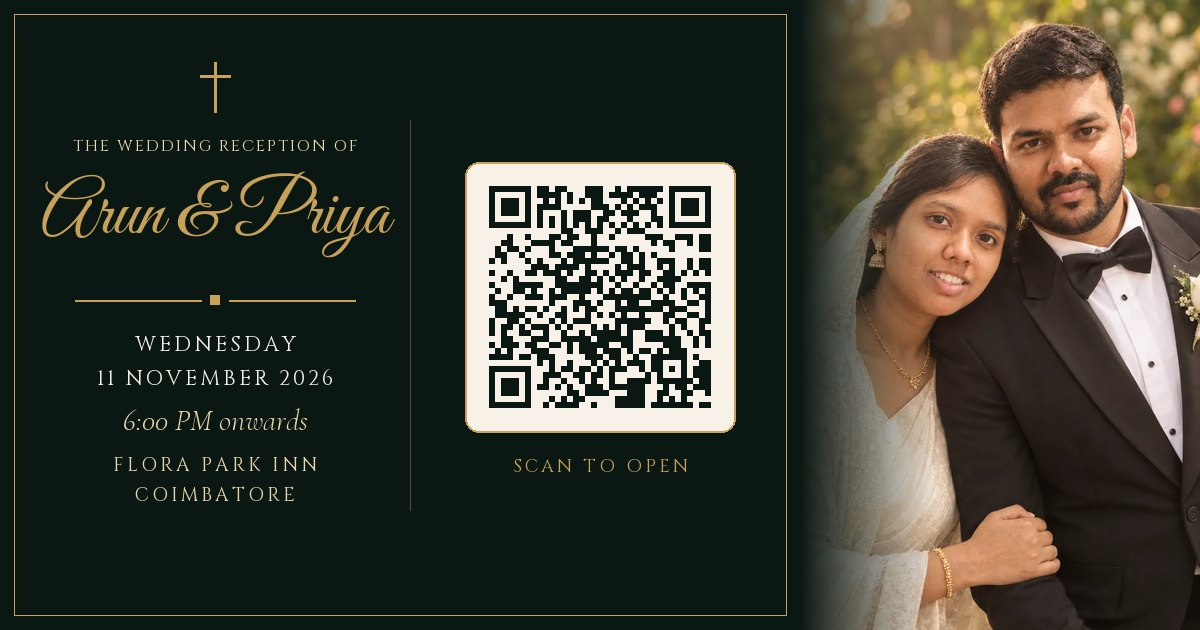
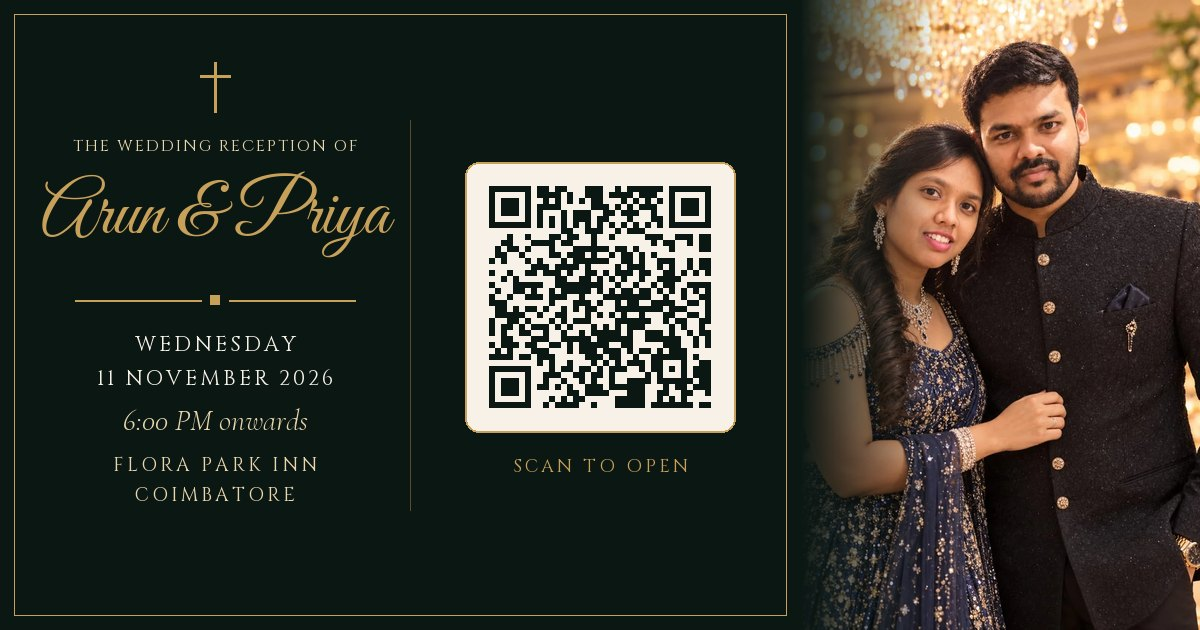
Feature Evening Elegance photo on the share cards

Changed region(s): [[0.6783, 0.0, 1.0, 1.0], [0.9558, 0.7841, 1.0, 1.0]]

diff --git a/tools/make_share_assets.py b/tools/make_share_assets.py
@@ -66,7 +66,7 @@ def preview_card():
     w, h = 1200, 630
     pw = 400
     card = Image.new("RGB", (w, h), FOREST)
-    photo = Image.open(os.path.join(IMAGES, "hero.webp")).convert("RGB")
+    photo = Image.open(os.path.join(IMAGES, "evening.webp")).convert("RGB")
     card.paste(cover(photo, (pw, h)), (w - pw, 0))
 
     # soft fade from the text panel into the photo
@@ -115,34 +115,39 @@ def qr_image(scale, dark, light):
 def qr_card():
     """Portrait card to forward as an image; scanning opens the invitation."""
     w, h = 1080, 1350
-    photo = Image.open(os.path.join(IMAGES, "rings.webp")).convert("RGB")
-    card = cover(photo, (w, h)).filter(ImageFilter.GaussianBlur(18))
-    card = Image.blend(card, Image.new("RGB", (w, h), FOREST), 0.78)
+    ph = 640
+    card = Image.new("RGB", (w, h), FOREST)
+    photo = Image.open(os.path.join(IMAGES, "evening.webp")).convert("RGB")
+    card.paste(ImageOps.fit(photo, (w, ph), Image.LANCZOS, centering=(0.5, 0.12)), (0, 0))
+
+    # photo fades into the text panel below it
+    fade_h = 240
+    fade = Image.new("L", (w, fade_h))
+    for y in range(fade_h):
+        ImageDraw.Draw(fade).line((0, y, w, y), fill=int(255 * y / (fade_h - 1)))
+    card.paste(Image.new("RGB", (w, fade_h), FOREST), (0, ph - fade_h), fade)
 
     d = ImageDraw.Draw(card)
     d.rectangle((36, 36, w - 37, h - 37), outline=GOLD, width=2)
     d.rectangle((50, 50, w - 51, h - 51), outline=(120, 100, 60), width=1)
 
     cx = w // 2
-    cross(d, cx, 105, 70, GOLD)
-    centered(d, cx, 210, "YOU ARE CORDIALLY INVITED TO", font("Cinzel.ttf", 28), CHAMPAGNE, spacing=3)
-    centered(d, cx, 252, "THE WEDDING RECEPTION OF", font("Cinzel.ttf", 28), CHAMPAGNE, spacing=3)
-    centered(d, cx, 300, "Arun & Priya", font("GreatVibes.ttf", 132), GOLD)
-    rule(d, cx, 495, 220, GOLD)
-    centered(d, cx, 525, "WEDNESDAY · 11 NOVEMBER 2026 · 6:00 PM", font("Cinzel.ttf", 27), IVORY, spacing=2)
-    centered(d, cx, 570, "Flora Park Inn, Coimbatore", font("CormorantItalic.ttf", 40), CHAMPAGNE)
+    centered(d, cx, 590, "THE WEDDING RECEPTION OF", font("Cinzel.ttf", 26), CHAMPAGNE, spacing=3)
+    centered(d, cx, 620, "Arun & Priya", font("GreatVibes.ttf", 116), GOLD)
+    rule(d, cx, 800, 200, GOLD)
+    centered(d, cx, 822, "WEDNESDAY · 11 NOVEMBER 2026 · 6:00 PM", font("Cinzel.ttf", 27), IVORY, spacing=2)
+    centered(d, cx, 864, "Flora Park Inn, Coimbatore", font("CormorantItalic.ttf", 38), CHAMPAGNE)
 
     # QR on an ivory tile so every phone camera reads it reliably
     # whole-pixel modules (no resampling) keep the code crisp for scanners
     side = segno.make(URL, error="h").symbol_size(border=2)[0]
-    qr = qr_image(440 // side, FOREST, IVORY)
-    tile = 488
-    tx, ty = cx - tile // 2, 665
-    d.rounded_rectangle((tx, ty, tx + tile, ty + tile), radius=22, fill=IVORY, outline=GOLD, width=3)
-    card.paste(qr, (cx - qr.width // 2, ty + (tile - qr.height) // 2))
+    qr = qr_image(7, FOREST, IVORY) if side * 7 <= 300 else qr_image(300 // side, FOREST, IVORY)
+    tile = qr.width + 24
+    tx, ty = cx - tile // 2, 930
+    d.rounded_rectangle((tx, ty, tx + tile, ty + tile), radius=18, fill=IVORY, outline=GOLD, width=3)
+    card.paste(qr, (cx - qr.width // 2, ty + 12))
 
-    centered(d, cx, ty + tile + 34, "SCAN TO OPEN THE INVITATION", font("Cinzel.ttf", 26), GOLD, spacing=3)
-    centered(d, cx, ty + tile + 80, "Photos · Countdown · Map · Add to Calendar", font("CormorantItalic.ttf", 32), CHAMPAGNE)
+    centered(d, cx, ty + tile + 18, "SCAN TO OPEN THE INVITATION", font("Cinzel.ttf", 24), GOLD, spacing=3)
 
     card.save(os.path.join(SHARE, "invite-qr.png"), optimize=True)
     qr_image(16, FOREST, IVORY).save(os.path.join(SHARE, "qr.png"))
